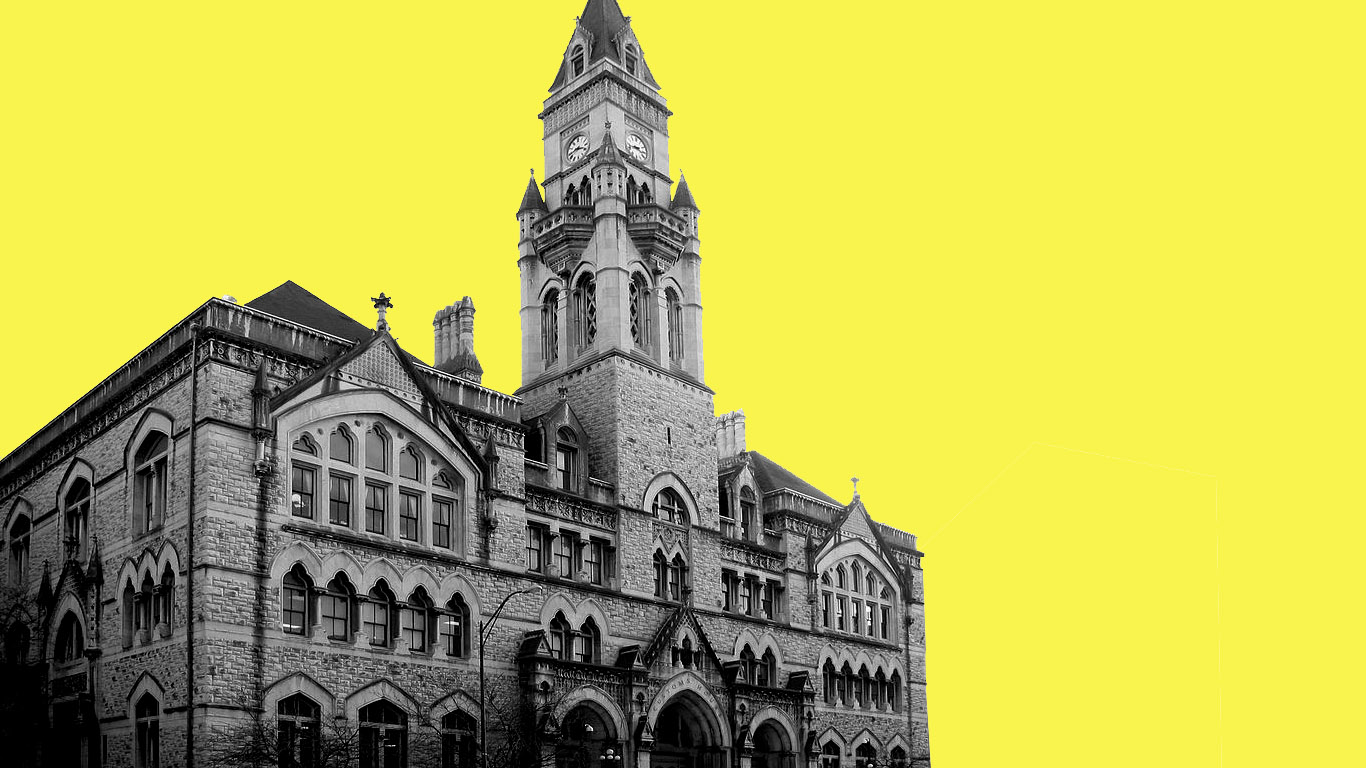
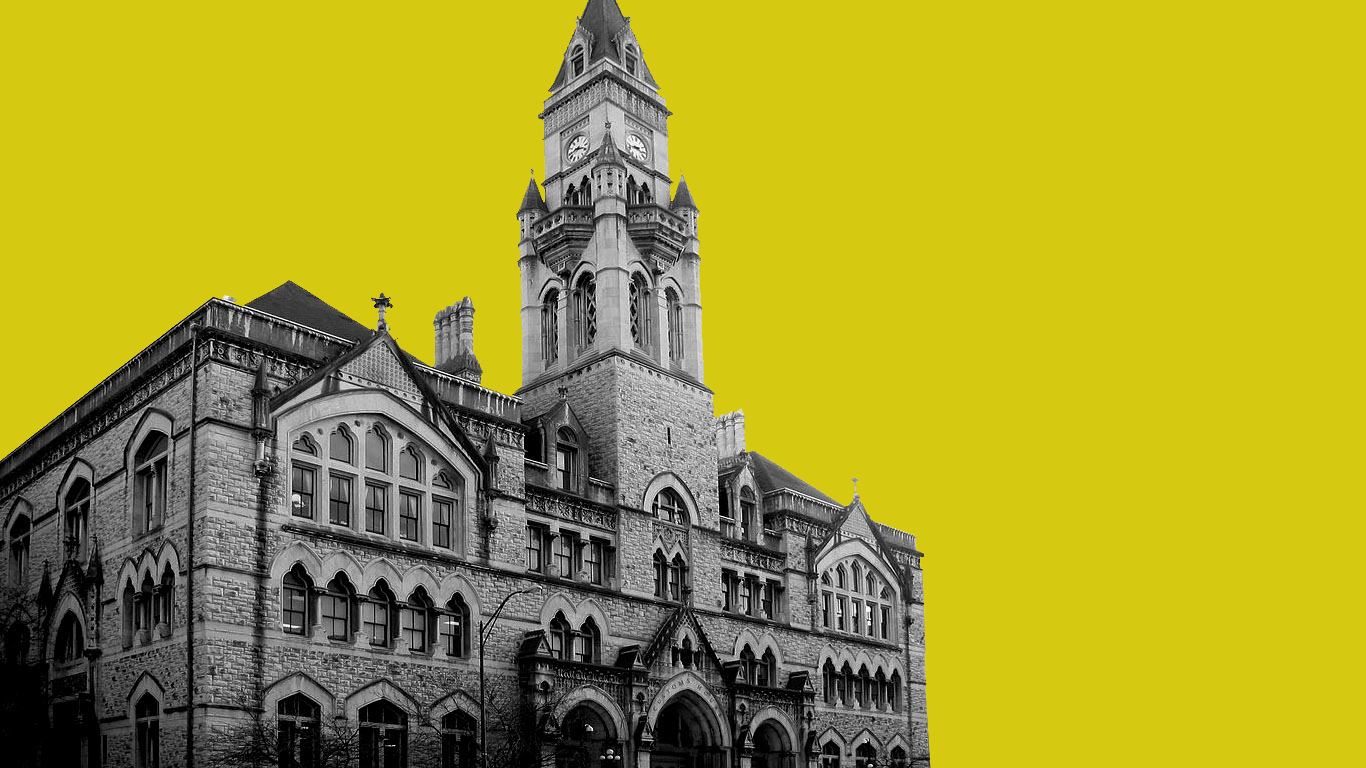
mobile/tablet pov bg fixed

diff --git a/_sass/_pov.scss b/_sass/_pov.scss
@@ -2,9 +2,9 @@
     @include main-image('/images/pov/POVDesktop.jpg');
     position: relative;
 
-    // @include max-media-query($tablet-large) {
-    //     @include main-image('/images/pov/POVbackgroundtall.png');
-    // }
+    @include max-media-query($tablet-large) {
+        @include main-image('/images/pov/POVbackgroundtall.jpg');
+    }
 }
 
 .pov-quote {
